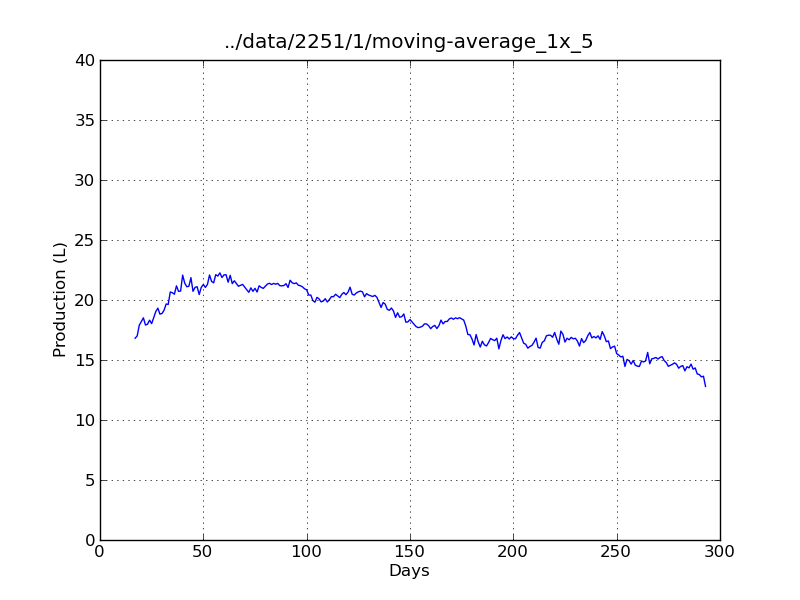
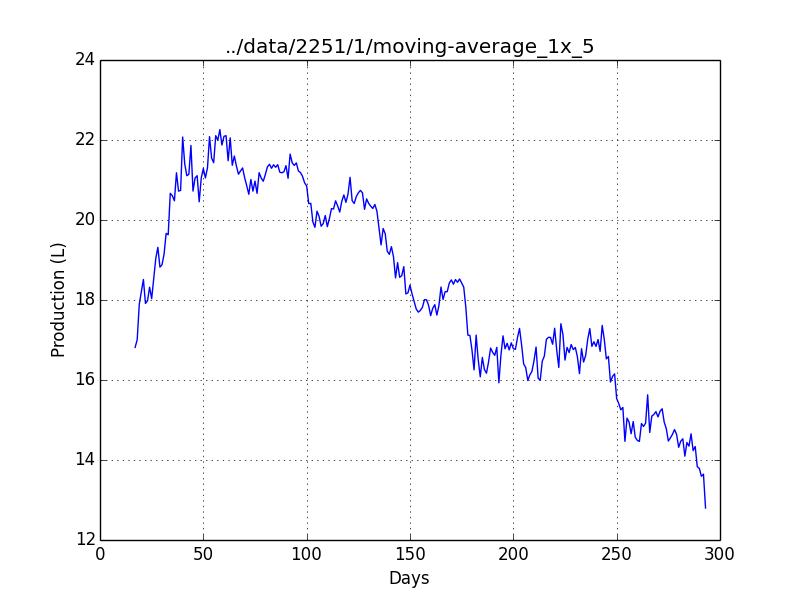
Clean data

diff --git a/scripts/shell_commands.py b/scripts/shell_commands.py
@@ -1,16 +1,44 @@
 # -*-coding: utf-8 -*-
-
+from path import path
 from subprocess import call
 
 def main():
-    basepath = "../data/2251/"
-    
-    for i in range(1, 10):
-        filename = "data.txt"
-        path = basepath + str(i) + "/" + filename
-        
-        # call(["python", "crude_values.py", path])
-        # call(["python", "moving_average.py", path, "1", "7"])
+    filenames = [filename for filename in path("../data/").walkfiles()]
+    for filename in filenames:
+        if "data.txt" in filename:
+            dirname = path.dirname(filename)
+            
+            # Crude values
+            crude_values = path.joinpath(dirname, "crude-values.png")
+            
+            if not crude_values in filenames:    
+                command = "python crude_values.py " + filename
+                call(command.split(" "))
+                print command
+            
+            # Moving average
+            moving_average_rep = "1"
+            moving_average_step = "5"
+            moving_average = path.joinpath(dirname, 
+                                           "moving-average_" + 
+                                           moving_average_rep + "x_" + 
+                                           moving_average_step + ".png")
+            
+            if not moving_average in filenames:
+                command = ("python moving_average.py " + filename + " " + 
+                           moving_average_rep + " " + moving_average_step)
+                call(command.split(" "))
+                print command
+            
+            # Fourier transform
+            ft_re = path.joinpath(dirname, "fourier-transform_re.png")
+            ft_im = path.joinpath(dirname, "fourier-transform_im.png")
+            
+            if not (ft_re in filenames and ft_im in filenames):
+                command = "python fourier_transform.py " + filename
+                call(command.split(" "))
+                print command
+            
 
 if __name__ == "__main__":
     main()

diff --git a/scripts/fourier_transform.py b/scripts/fourier_transform.py
@@ -1,0 +1,35 @@
+# -*-coding: utf-8 -*-
+
+import os.path
+import sys
+import numpy as np
+import matplotlib.pyplot as plt
+from globals import draw, ensure_dir, get_filename, get_values
+
+def main(args):
+    path = args[0]
+    with open(path, "r") as f:
+        days, amounts = get_values(f)
+    
+    days = np.asarray(days)
+    amounts = np.asarray(amounts)
+    
+    spectrum = np.fft.fft(amounts)
+    timestep = 1
+    freq = np.fft.fftfreq(len(spectrum), d=timestep)
+    freq = np.fft.fftshift(freq)
+    spectrum = np.fft.fftshift(spectrum)
+    
+    filename = get_filename(path, "fourier-transform_re")
+    title = filename
+    plt.plot(freq, np.real(spectrum))
+    draw(filename, title=title, xlabel="Frequencies (Hz)", ylabel="Spectrum (Re)")
+    
+    filename = get_filename(path, "fourier-transform_im")
+    title = filename
+    plt.plot(freq, np.imag(spectrum))
+    draw(filename, title=title, xlabel="Frequencies (Hz)", ylabel="Spectrum (Im)")
+    
+    
+if __name__ == "__main__":
+    main(sys.argv[1:])

diff --git a/scripts/globals.py b/scripts/globals.py
@@ -6,17 +6,15 @@ import sys
 import numpy as np
 import matplotlib.pyplot as plt
 
-def draw(x, y, filename, title=""):
-    plt.plot(x, y)
-    plt.xlabel("Days")
-    plt.ylabel("Production (L)")
+def draw(filename, title="", xlabel="Days", ylabel="Production (L)"):
+    plt.xlabel(xlabel)
+    plt.ylabel(ylabel)
     plt.title(title)
     plt.grid(True)
     
-    plt.ylim([0, 40])
-    
     ensure_dir(filename)
     plt.savefig(filename + ".png")
+    plt.clf()
 
 def ensure_dir(path):
     d = os.path.dirname(path)

diff --git a/scripts/moving_average.py b/scripts/moving_average.py
@@ -2,6 +2,7 @@
 
 import os.path
 import sys
+import matplotlib.pyplot as plt
 from globals import draw, ensure_dir, get_filename, get_values
 
 def average(amounts, n):
@@ -39,7 +40,8 @@ def main(args):
      
     filename = get_filename(path, "moving-average_" + str(count) + "x_" + str(n))
     title = filename
-    draw(days, amounts, filename, title=title)
+    plt.plot(days, amounts)
+    draw(filename, title=title)
 
 if __name__ == "__main__":
     main(sys.argv[1:])

diff --git a/scripts/crude_values.py b/scripts/crude_values.py
@@ -11,9 +11,10 @@ def main(args):
     with open(path, "r") as f:
         days, amounts = get_values(f)
     
-    filename = get_filename(path, "crude_values")
+    filename = get_filename(path, "crude-values")
     title = filename
-    draw(days, amounts, filename, title=title)
+    plt.plot(days, amounts)
+    draw(filename, title=title)
     
 if __name__ == "__main__":
     main(sys.argv[1:])
